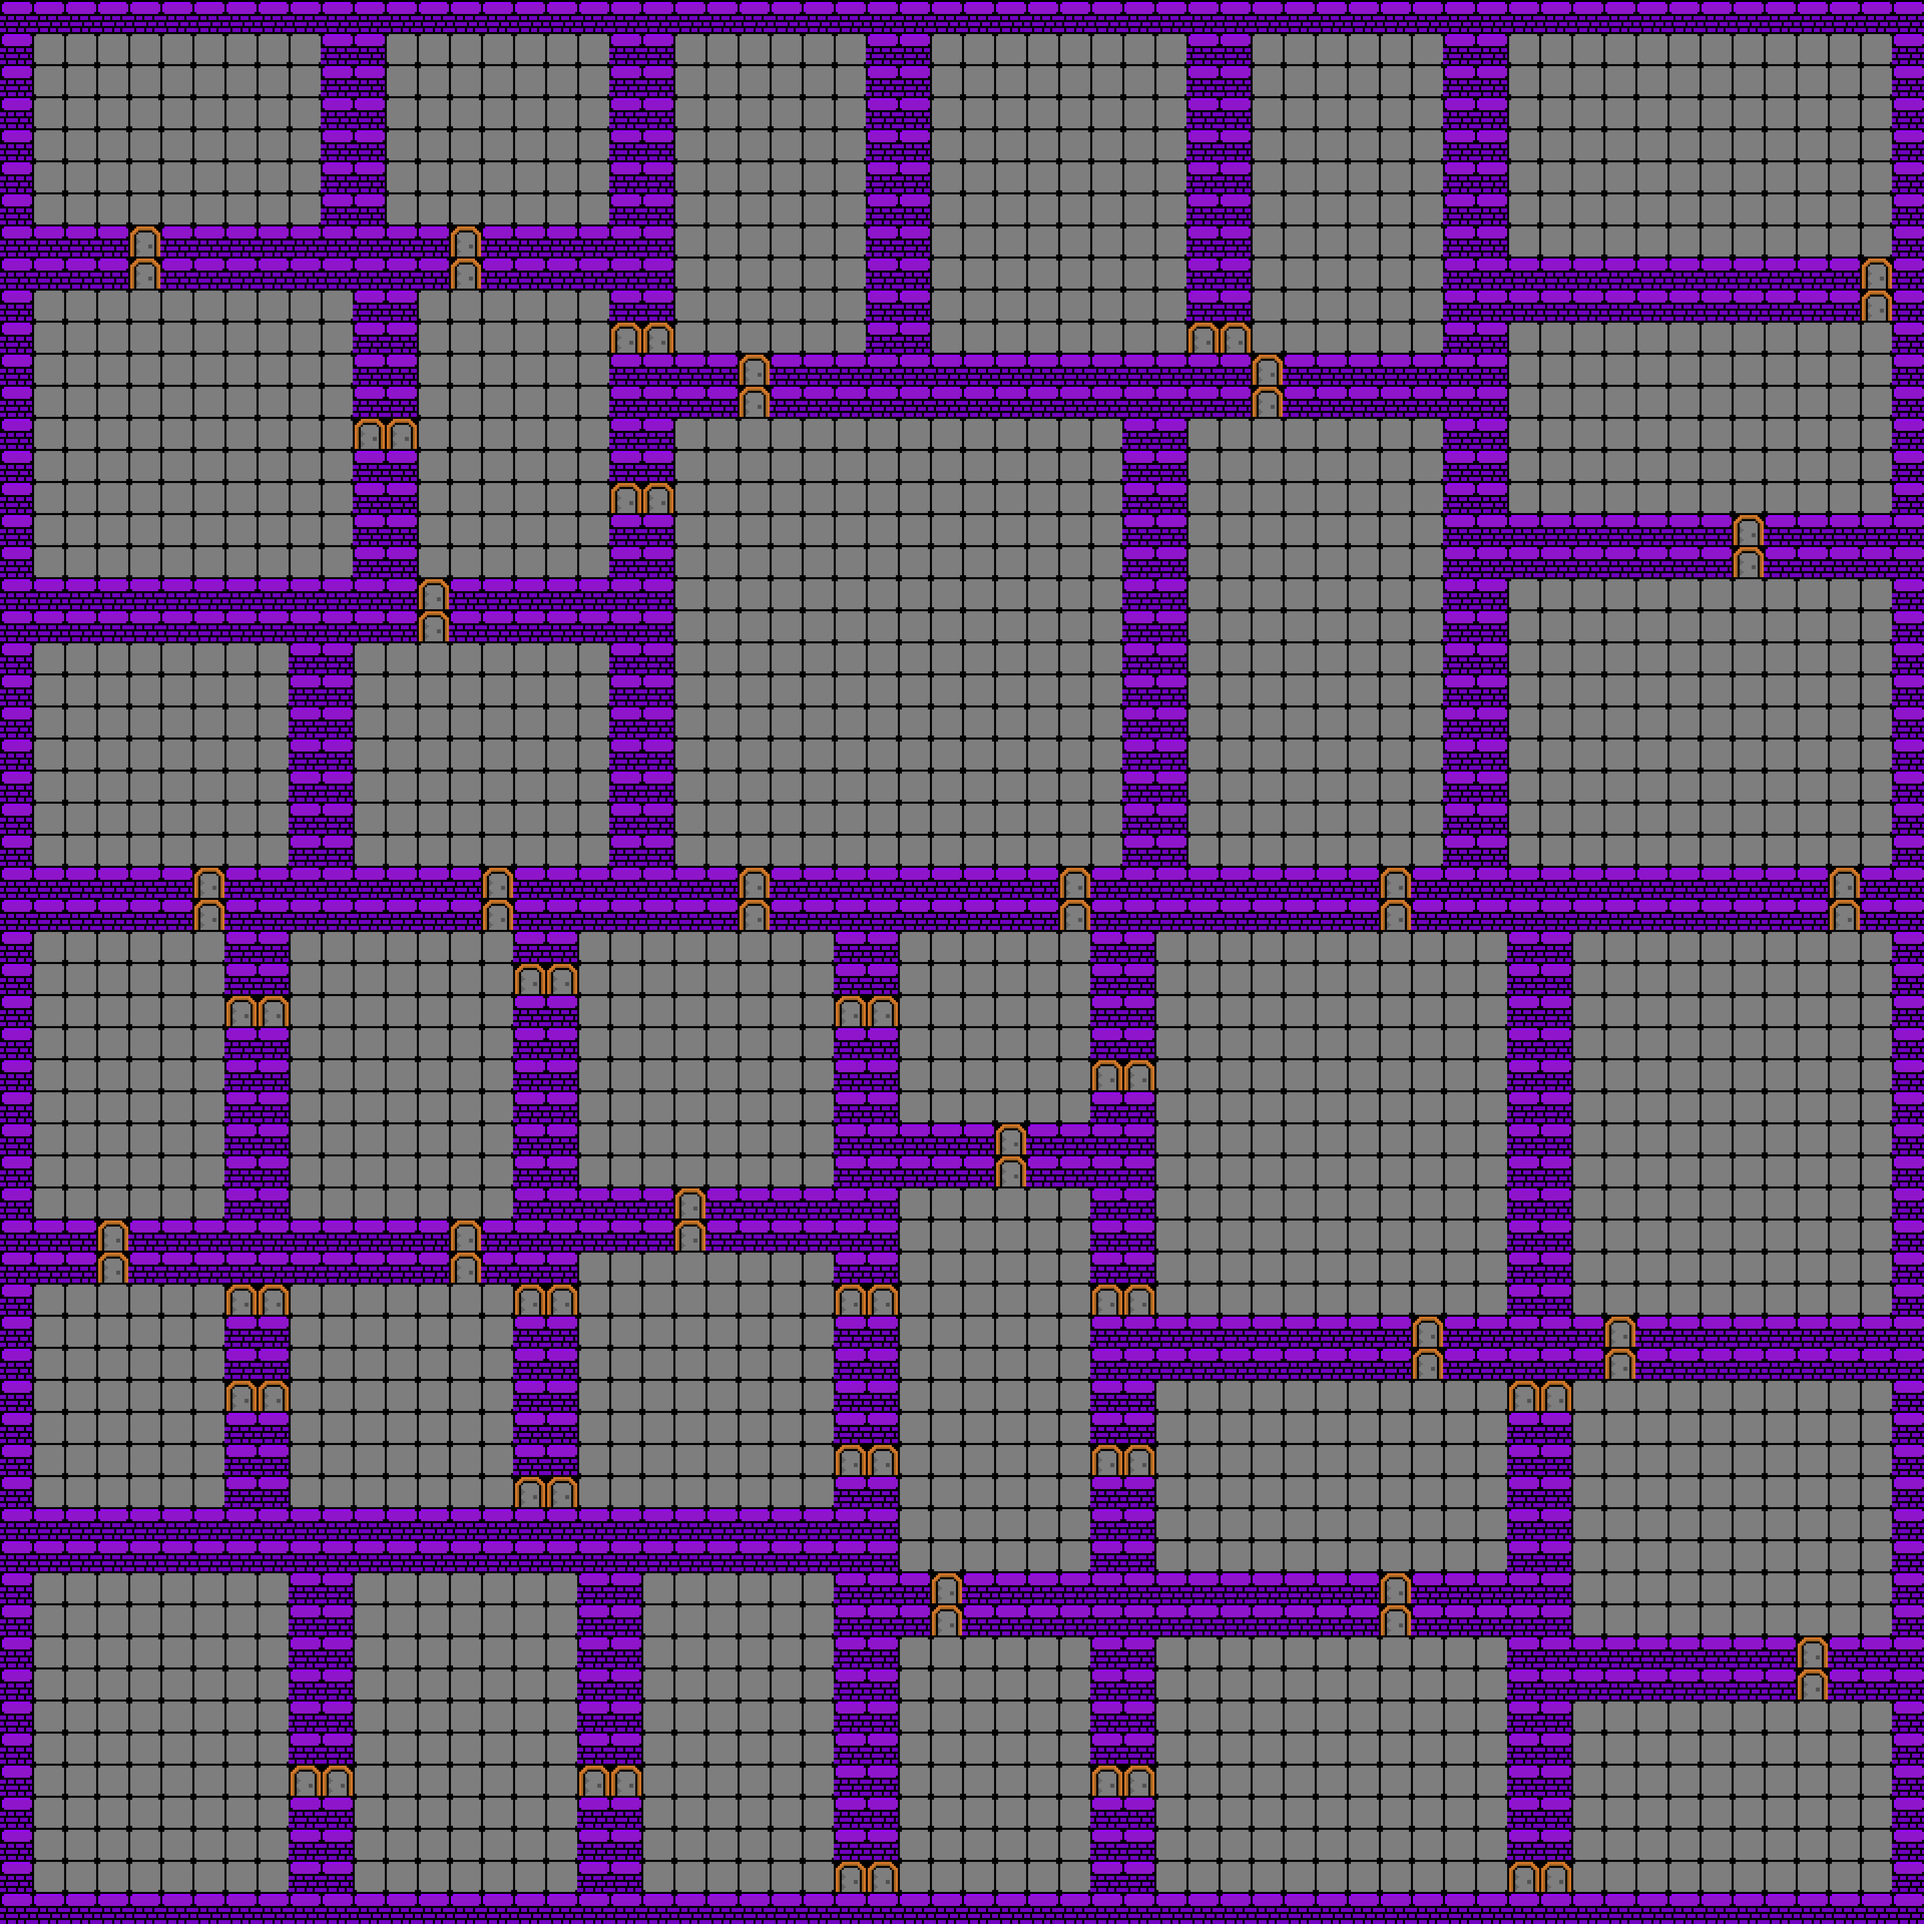
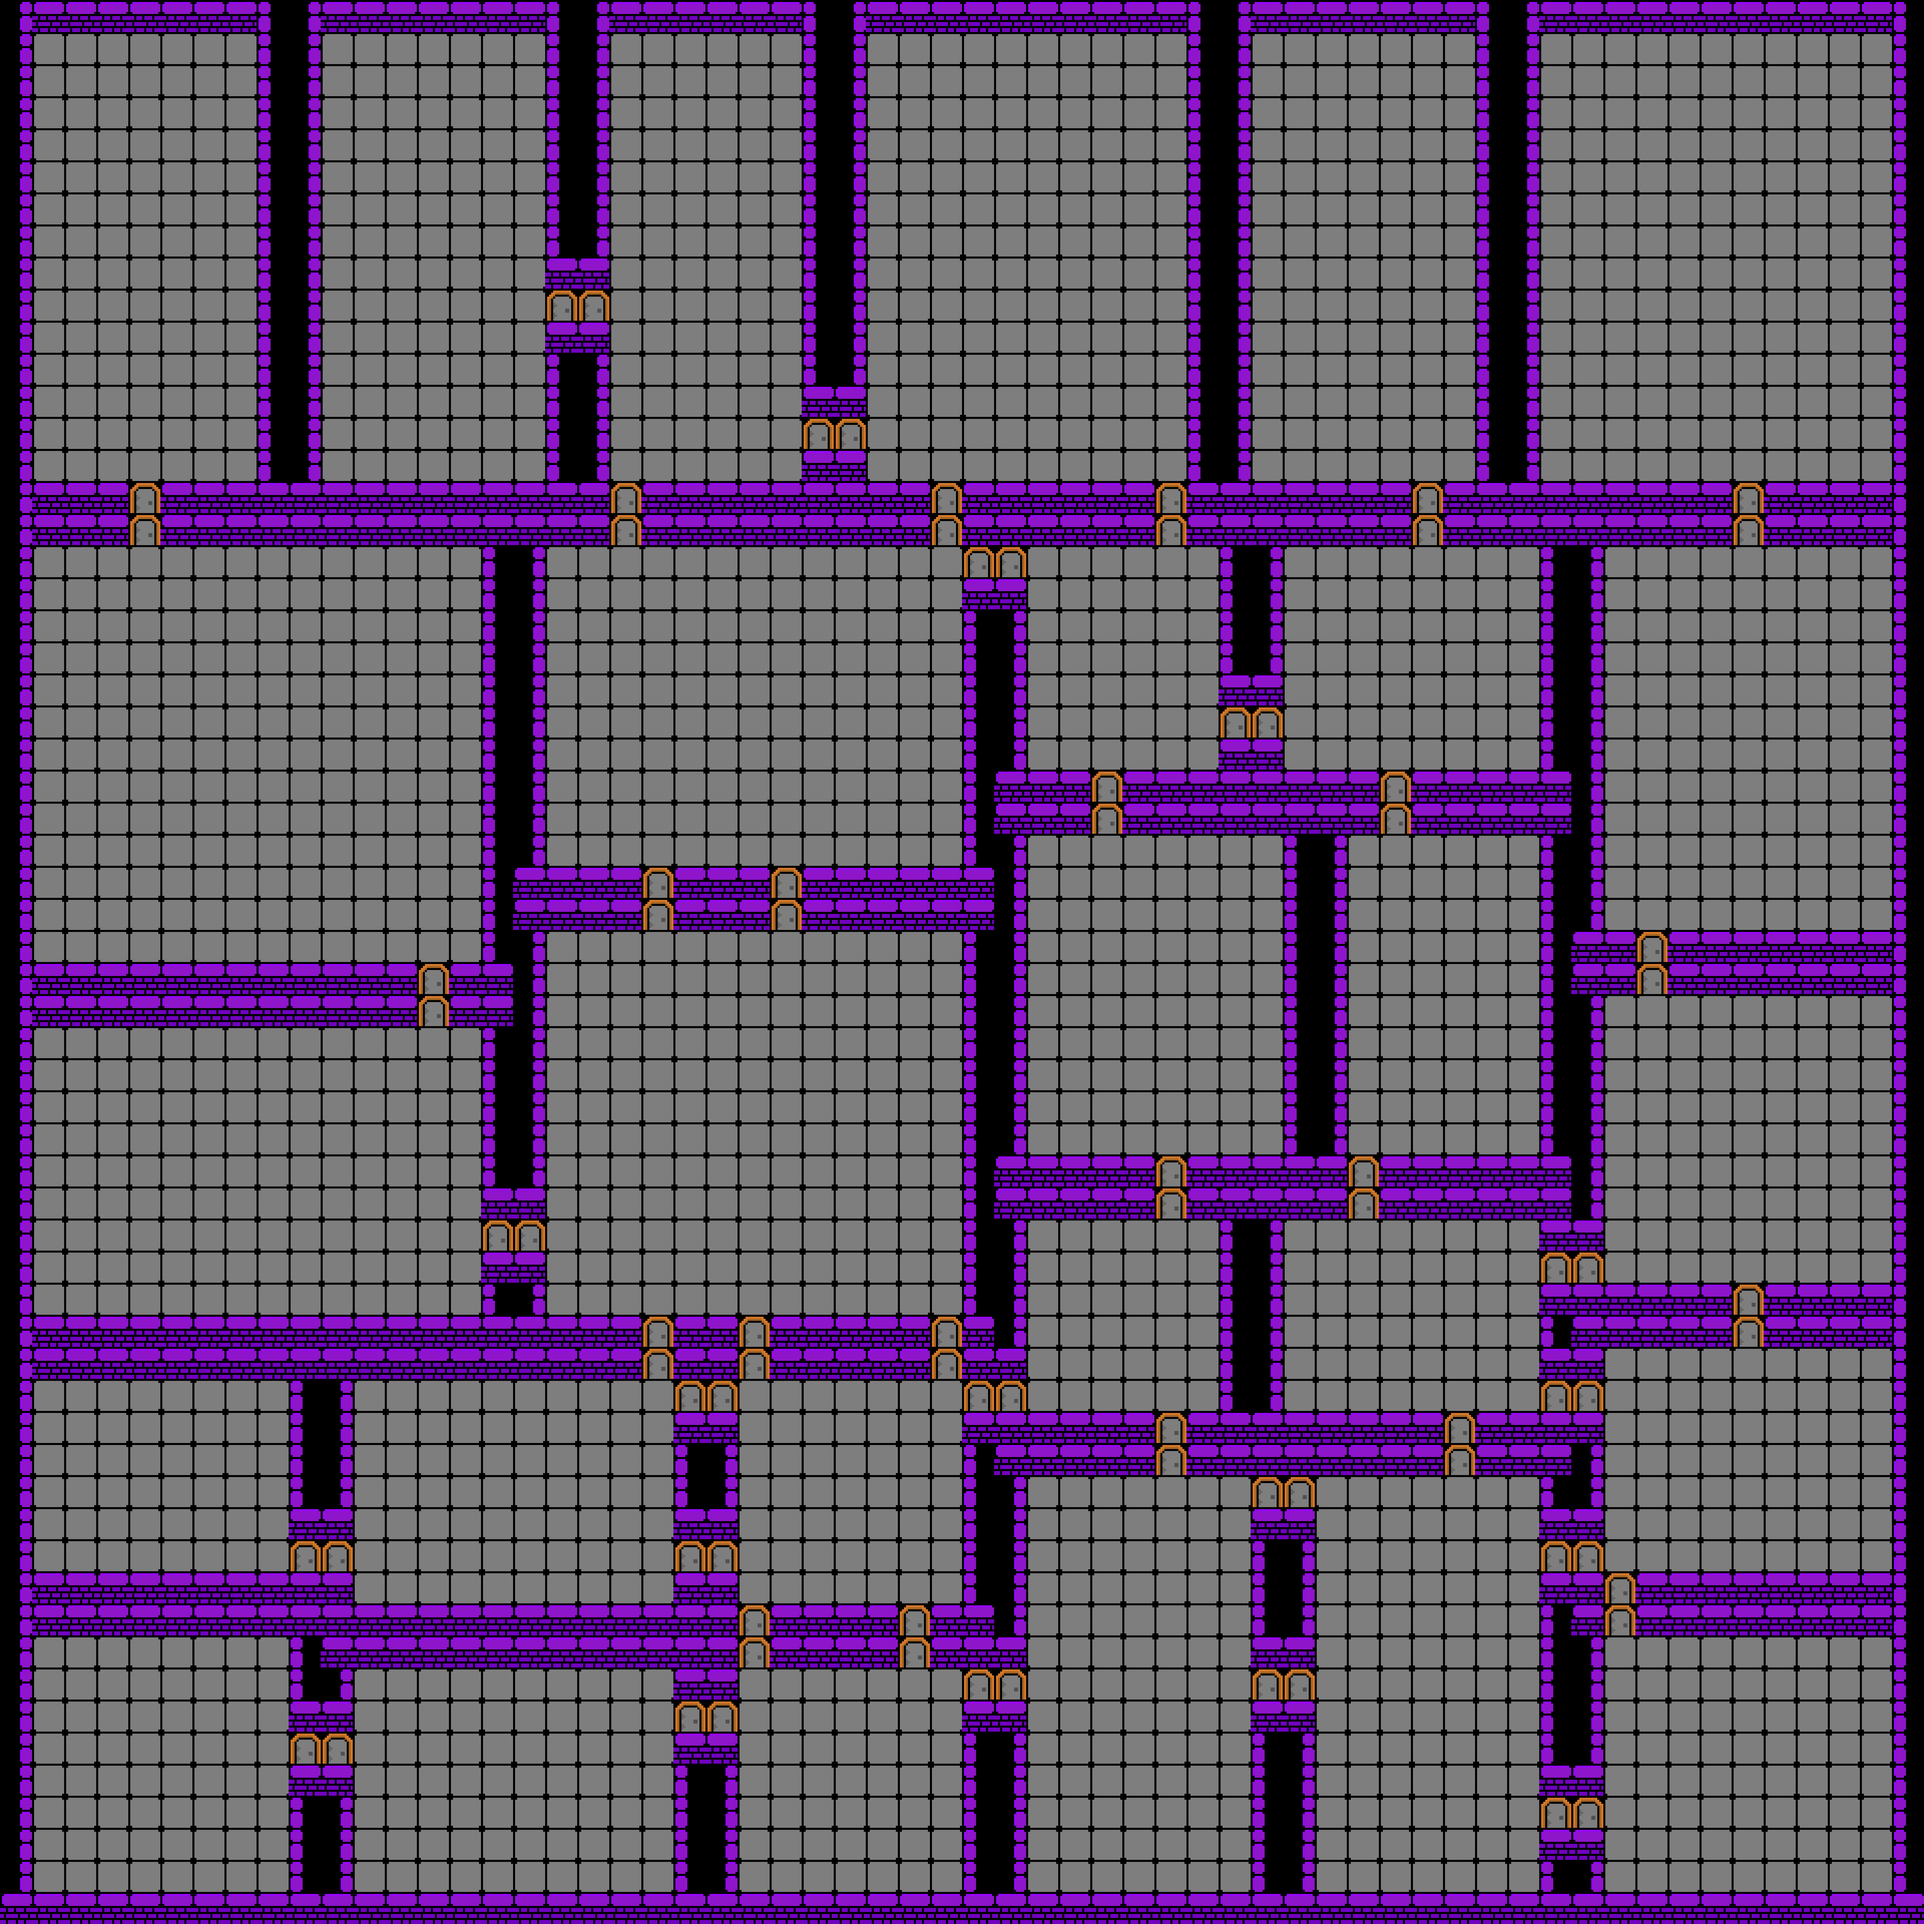
COS_598: Saving Work

diff --git a/Utility/room_gen/tilearray.py b/Utility/room_gen/tilearray.py
@@ -49,21 +49,6 @@ class tileArray:
                 else:
                     self.tile_array[row][column] = self.floor
 
-    def create_Corridors(
-        self, path_List: list[tuple[tuple[int, int], tuple[int, int]]]
-    ) -> None:
-        for path in path_List:
-            if path[0][1] == path[1][1]:
-                for i in range(path[1][0] - path[0][0]):
-                    if self.tile_array[path[1][1]][path[0][0] + i] not in [
-                        self.corridor_v,
-                        self.corridor_h,
-                    ]:
-                        self.tile_array[path[1][1]][path[0][0] + i] = self.corridor_h
-            else:
-                for i in range(path[1][1] - path[0][1]):
-                    self.tile_array[path[0][1] + i][path[0][0]] = self.corridor_v
-
     def get_directions(
         self, row: int, column: int, w_range: list[int], h_range: list[int]
     ) -> tuple[str, str, str, str, str, str, str, str]:
@@ -94,6 +79,118 @@ class tileArray:
             else ""
         )
         return north, south, east, west, northeast, northwest, southeast, southwest
+
+    def cleanup_Area(self) -> None:
+        w_range: list[int] = list(range(self.map_width))
+        h_range: list[int] = list(range(self.map_height))
+
+        for row in range(self.map_height):
+            for column in range(self.map_width):
+                (
+                    north,
+                    south,
+                    east,
+                    west,
+                    northeast,
+                    northwest,
+                    southeast,
+                    southwest,
+                ) = self.get_directions(row, column, w_range, h_range)
+                if self.tile_array[row][column] in [self.corridor_v, self.corridor_h]:
+                    self.tile_array[row][column] = self.wall
+                elif not (self.tile_array[row][column] == self.wall):
+                    if not (
+                        (north == self.wall and south == self.wall)
+                        or (east == self.wall and west == self.wall)
+                    ):
+                        self.tile_array[row][column] = self.floor
+        for row in range(self.map_height):
+            print("performing clean up")
+            for column in range(self.map_width):
+                (
+                    north,
+                    south,
+                    east,
+                    west,
+                    northeast,
+                    northwest,
+                    southeast,
+                    southwest,
+                ) = self.get_directions(row, column, w_range, h_range)
+
+                if self.tile_array[row][column] == self.wall:
+                    # right wall
+                    if all(
+                        [
+                            self.path not in [north, south],
+                            east == self.floor,
+                        ]
+                    ) or all(
+                        [
+                            east in [self.wall, self.door],
+                            west == "",
+                            north in [self.wall, self.walll],
+                            south in [self.wall, self.walll],
+                        ]
+                    ):
+                        self.tile_array[row][column] = self.walll
+                    # left wall
+
+                    elif all(
+                        [
+                            self.path not in [north, south],
+                            west == self.floor,
+                        ]
+                    ) or all(
+                        [
+                            west in [self.wall, self.door],
+                            east == "",
+                            north in [self.wall, self.wallr],
+                            south in [self.wall, self.wallr],
+                        ]
+                    ):
+                        self.tile_array[row][column] = self.wallr
+
+        for row in range(self.map_height):
+            print("performing clean up")
+            for column in range(self.map_width):
+                (
+                    north,
+                    south,
+                    east,
+                    west,
+                    northeast,
+                    northwest,
+                    southeast,
+                    southwest,
+                ) = self.get_directions(row, column, w_range, h_range)
+
+                if all(
+                    [east == self.wall, south == self.walll, north in [self.walll, ""]]
+                ):
+                    print("tr corner")
+                    self.tile_array[row][column] = self.walll
+
+                if all(
+                    [west == self.wall, south == self.wallr, north in [self.wallr, ""]]
+                ):
+                    print("tr corner")
+                    self.tile_array[row][column] = self.wallr
+
+    def create_Corridors(
+        self, path_List: list[tuple[tuple[int, int], tuple[int, int]]]
+    ) -> None:
+        for path in path_List:
+            if path[0][1] == path[1][1]:
+                for i in range(path[1][0] - path[0][0]):
+                    if self.tile_array[path[1][1]][path[0][0] + i] not in [
+                        self.corridor_v,
+                        self.corridor_h,
+                    ]:
+                        self.tile_array[path[1][1]][path[0][0] + i] = self.corridor_h
+            else:
+                for i in range(path[1][1] - path[0][1]):
+                    self.tile_array[path[0][1] + i][path[0][0]] = self.corridor_v
 
     def vertical_corridors(
         self, iter_list: list[list[list[int]]], max: int, min: int

diff --git a/Utility/room_gen/room_node.py b/Utility/room_gen/room_node.py
@@ -133,47 +133,18 @@ class Node:
         if self.right:
             self.right.carve_Dungeon()
 
+    def clean_Dungeon(self) -> None:
+        self.tile_array.cleanup_Area()
+
     def trim_Rooms(self) -> None:
         if self.is_Leaf():
-            # trim_min_x: int = self.min_x + random.randint(
-            #     self.trim_amount, self.trim_amount + 1
-            # )
-            # trim_max_x: int = self.max_x - random.randint(
-            #     self.trim_amount, self.trim_amount + 1
-            # )
-            # trim_min_y: int = self.min_y + random.randint(
-            #     self.trim_amount, self.trim_amount + 1
-            # )
-            # trim_max_y: int = self.max_y - random.randint(
-            #     self.trim_amount, self.trim_amount + 1
-            # )
             self.min_x += self.trim_amount
             self.max_x -= self.trim_amount
             self.min_y += self.trim_amount
             self.max_y -= self.trim_amount
 
-            print(
-                f"Rectangle created at: (x_1 {self.min_x} y_1 {self.min_y}), (x_2 {self.max_x}, y_2 {self.max_y})"
-            )
         if self.left:
             self.left.trim_Rooms()
 
         if self.right:
             self.right.trim_Rooms()
-
-    # def get_corridors(self) -> list[tuple[tuple[int, int], tuple[int, int]]]:
-    #     corridors: list[tuple[tuple[int, int], tuple[int, int]]] = []
-
-    #     if self.left:
-    #         corridors += self.left.get_corridors()
-
-    #     if self.right:
-    #         corridors += self.right.get_corridors()
-
-    #     if (self.left) and (self.right) and self.split_dir == "h":
-    #         left_center: tuple[int, int] = self.left.get_Center()
-    #         right_center: tuple[int, int] = self.right.get_Center()
-
-    #         print(f"Corridor: left: {left_center} right: {right_center}")
-    #         corridors.append((left_center, right_center))
-    #     return corridors

diff --git a/image_gen.py b/image_gen.py
@@ -16,7 +16,8 @@ def generate_Dungeon(width: int, height: int) -> None:
     path = root.tile_array.leaf_Recursion(leaves[-1], leaves[:-1])
     for i in path:
         root.tile_array.tile_array[i[1]][i[0]] = root.tile_array.path
-    root.carve_Dungeon()
+
+    root.clean_Dungeon()
 
     with open("tilemap.txt", "w") as f:
         for row in range(len(tilemap.tile_array)):

diff --git a/main.py b/main.py
@@ -1,6 +1,3 @@
-# import random
-# from Game.initialize import initialize_game
-# from Game.gameloop import game_loop
 from image_gen import generate_Dungeon
 
 
